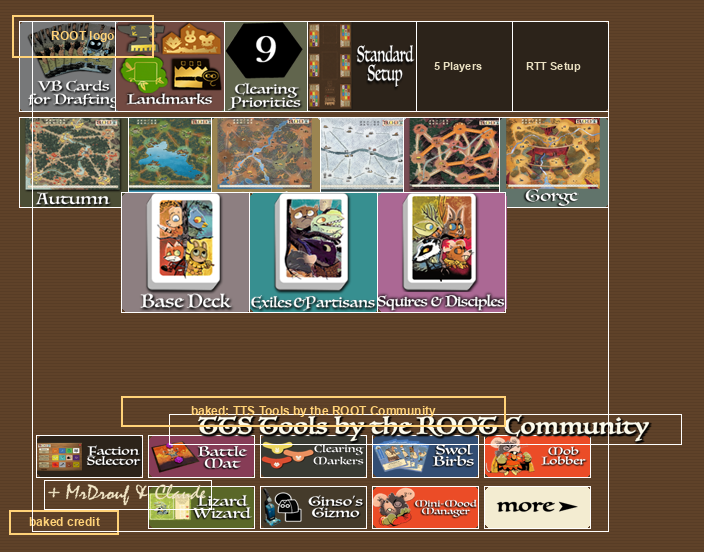
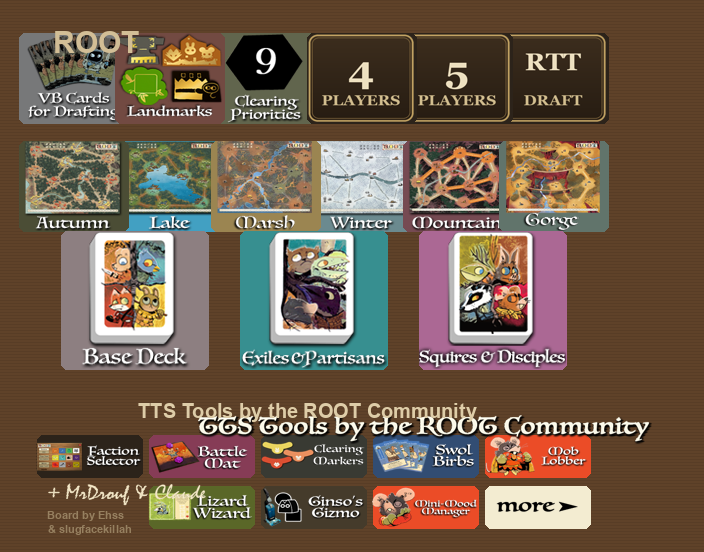
Balanced menu: setup plaques + deck/row layout, tuned against a preview renderer
- tools/preview_menu.py: composite the real hosted icons into a PNG at true XmlUI
  coords -> iterate layout without loading TTS.
- m330_setup_plaques: 4 PLAYERS / 5 PLAYERS / RTT DRAFT wooden plaques (assets/buttons/,
  GitHub-raw hosted) replace the flat dark text buttons.
- m340_layout_polish: decks spread wide + enlarged to fill the row; setups/maps/decks
  nudged down to fill the dead band above the baked title.

diff --git a/tools/preview_menu.py b/tools/preview_menu.py
@@ -18,8 +18,9 @@ OUT = os.path.join(ROOT, "tools", "menu_preview.png")
 os.makedirs(CACHE, exist_ok=True)
 
 MENU_GUID = "bab7e1"                      # Faction Selection
-GROUPS = sys.argv[1:] or ["setupButtons", "mapButtonsStandard",
-                          "decksButtonsStandard", "tools1", "Main Nav"]
+DEBUG = "--debug" in sys.argv
+GROUPS = [a for a in sys.argv[1:] if not a.startswith("--")] or \
+    ["setupButtons", "mapButtonsStandard", "decksButtonsStandard", "tools1", "Main Nav"]
 
 # ---- coordinate space -> pixels (calibrated to the board: X ~3.07 px/u, Y ~2.9) ----
 SX, SY = 3.2, 3.0
@@ -87,7 +88,17 @@ def parse(block, tag):
                         color=g("color")))
     return out
 
+REPO_RAW = "raw.githubusercontent.com/mrdrouf/root-tabletop-tournament/main/"
+
 def fetch(url):
+    # the repo's own assets may not be pushed yet — resolve them to local files
+    if REPO_RAW in url:
+        local = os.path.join(ROOT, url.split(REPO_RAW, 1)[1].replace("/", os.sep))
+        if os.path.exists(local):
+            try:
+                return Image.open(local).convert("RGBA")
+            except Exception:
+                pass
     p = os.path.join(CACHE, hashlib.md5(url.encode()).hexdigest() + ".img")
     if not os.path.exists(p):
         try:
@@ -126,7 +137,8 @@ def draw_btn(b):
     elif b.get("text"):
         dr.text(((l + r) / 2, (t + bot) / 2), b["text"], anchor="mm",
                 fill=(235, 225, 195), font=font(11))
-    dr.rectangle([l, t, r, bot], outline=(255, 255, 255, 40))   # slot outline
+    if DEBUG:
+        dr.rectangle([l, t, r, bot], outline=(255, 255, 255, 40))   # slot outline
 
 total = 0
 for gid in GROUPS:
@@ -135,18 +147,19 @@ for gid in GROUPS:
     for b in btns:
         draw_btn(b); total += 1
 
-# baked (immovable) reference markers
-def marker(x, y, txt, w=40, h=10):
-    l, t, r, bot = box(dict(x=x, y=y, w=w, h=h))
-    dr.rectangle([l, t, r, bot], outline=(255, 210, 120, 200), width=2)
-    dr.text(((l + r) / 2, (t + bot) / 2), txt, anchor="mm", fill=(255, 210, 120), font=font(12))
-marker(0, -45, "baked: TTS Tools by the ROOT Community", w=120, h=10)
-marker(-78, -82, "baked credit", w=34, h=8)
-marker(-72, 80, "ROOT logo", w=44, h=14)
-
-# board usable bounds
-bl = box(dict(x=-88, y=85, w=0, h=0))[0:2]; br = box(dict(x=92, y=-85, w=0, h=0))[0:2]
-dr.rectangle([bl[0], bl[1], br[0], br[1]], outline=(255, 255, 255, 90), width=1)
+# baked art (part of the board texture) — draw subtly so the preview is representative
+def baked_text(x, y, txt, size, fill):
+    cx, cy = px(x, y)
+    dr.text((cx, cy), txt, anchor="mm", fill=fill, font=font(size))
+baked_text(-2, -45, "TTS Tools by the ROOT Community", 20, (222, 205, 168, 235))
+baked_text(-70, -82, "Board by Ehss\n& slugfacekillah", 11, (150, 128, 96, 255))
+baked_text(-68, 78, "ROOT", 30, (210, 190, 150, 120))
+if DEBUG:
+    marker = lambda x, y, w, h: dr.rectangle(box(dict(x=x, y=y, w=w, h=h)),
+                                             outline=(255, 210, 120, 200), width=2)
+    marker(-2, -45, 120, 10); marker(-70, -82, 34, 12)
+    bl = box(dict(x=-88, y=85, w=0, h=0))[0:2]; br = box(dict(x=92, y=-85, w=0, h=0))[0:2]
+    dr.rectangle([bl[0], bl[1], br[0], br[1]], outline=(255, 255, 255, 90), width=1)
 
 img.convert("RGB").save(OUT)
 print("rendered %d elements -> %s (%dx%d)" % (total, OUT, W, H))

diff --git a/mods/m340_layout_polish.py b/mods/m340_layout_polish.py
@@ -1,0 +1,43 @@
+"""
+m340 — layout polish (final source of truth for the row geometry).
+
+Judged against tools/preview_menu.py renders. Runs last, so it overrides the row
+positions/sizes set earlier. Fixes seen in the preview:
+ - the 3 decks left the right third of their row empty -> spread them wide and
+   enlarge so they balance the 6-wide map row above.
+ - the top rows sat high with a dead band above the baked title -> nudge setups /
+   maps / decks down so the upper block fills the space more evenly.
+"""
+
+from . import framework
+
+# (group, [(button_id, "x y z")]) rows, applied in order; sizes set below
+SETUP_ROW = ("setupButtons", [
+    ("Vagabond Cards", "-75 66 -20"), ("Landmarks", "-45 66 -20"),
+    ("Clearing Priorities", "-15 66 -20"), ("Setup All", "15 66 -20"),
+    ("fivePlayerSetup", "45 66 -20"), ("rttSetup", "75 66 -20"),
+])
+MAP_ROW = ("mapButtonsStandard", [
+    ("Summer Map", "-75 30 -20"), ("Lake Map", "-45 30 -20"),
+    ("Marsh Map", "-15 30 -20"), ("Winter Map", "15 30 -20"),
+    ("Mountain Map", "45 30 -20"), ("Gorge Map", "75 30 -20"),
+])
+DECK_ROW = ("decksButtonsStandard", [
+    ("Standard Deck", "-56 -8 -20"), ("Exiles and Partisans Deck", "0 -8 -20"),
+    ("Squires and Disciples Deck", "56 -8 -20"),
+])
+
+NAME = "layout polish: spread decks, tighten vertical spacing"
+
+
+def apply(text):
+    for group, row in (SETUP_ROW, MAP_ROW, DECK_ROW):
+        for bid, pos in row:
+            text, n = framework.set_button_position_in_group(text, group, bid, pos)
+            if n == 0:
+                raise framework.BuildError("button not found in %s: %r" % (group, bid))
+    # decks a touch bigger so three of them fill the row width
+    for bid, _ in DECK_ROW[1]:
+        for attr, val in (("width", "46"), ("height", "46")):
+            text, _ = framework.set_button_attr_in_group(text, "decksButtonsStandard", bid, attr, val)
+    return text

diff --git a/mods/m330_setup_plaques.py b/mods/m330_setup_plaques.py
@@ -1,0 +1,41 @@
+"""
+m330 — consistent plaques for the three setup ACTIONS.
+
+The setups row mixed real icon-thumbnails (Vagabond Cards, Landmarks, Clearing
+Priorities) with flat dark text buttons (Standard Setup / 5 Players / RTT Setup) —
+the text buttons looked unfinished and broke the row. Give the three setup actions
+matching wooden plaques ("4 PLAYERS", "5 PLAYERS", "RTT DRAFT", rendered in
+assets/buttons/, hosted via the repo's GitHub raw URL) so the row reads as a
+deliberate set. Same hosting trick as the handwriting credit — no font bundle,
+just images.
+"""
+
+from . import framework
+
+NAME = "setup action plaques: 4 Players / 5 Players / RTT Draft"
+
+REPO_RAW = "https://raw.githubusercontent.com/mrdrouf/root-tabletop-tournament/main"
+PLAQUES = [  # (asset name, png, target button id, old text to replace or None if icon)
+    ("setup4p", "setup_4p.png", "Setup All", None),
+    ("setup5p", "setup_5p.png", "fivePlayerSetup", "5 Players"),
+    ("setuprtt", "setup_rtt.png", "rttSetup", "RTT Setup"),
+]
+
+
+def apply(text):
+    for name, png, _bid, _old in PLAQUES:
+        url = "%s/assets/buttons/%s" % (REPO_RAW, png)
+        text = framework.add_custom_ui_asset(text, name, url)
+
+    # Setup All already has icon="SixPack" -> swap it
+    text, n = framework.set_button_attr(text, "Setup All", "icon", "setup4p")
+    if n == 0:
+        raise framework.BuildError("Setup All button not found")
+
+    # the other two are text buttons -> turn text into an icon (drops the text)
+    for name, _png, _bid, old in PLAQUES:
+        if old is None:
+            continue
+        text = framework.replace_unique(
+            text, framework.esc('text="%s"' % old), framework.esc('icon="%s"' % name))
+    return text

diff --git a/mods/registry.py b/mods/registry.py
@@ -45,6 +45,8 @@ from . import m290_lizard_warriors
 from . import m300_duchy_warriors
 from . import m310_errata
 from . import m320_menu_cleanup
+from . import m330_setup_plaques
+from . import m340_layout_polish
 
 # Ready-made examples — uncomment to begin layering real modifications:
 # from . import m010_no_marquise_dice
@@ -83,4 +85,6 @@ MODS = [
     m300_duchy_warriors,
     m310_errata,
     m320_menu_cleanup,
+    m330_setup_plaques,
+    m340_layout_polish,
 ]

diff --git a/CHANGELOG.md b/CHANGELOG.md
@@ -240,4 +240,23 @@ proposals → judged → adversarial geometry check).
   (`framework.add_custom_ui_asset`), and placed as an `<Image>` tucked above the
   baked credit. Swap fonts via `FONT` in m270 (five rendered options in assets).
 
+## A real feedback loop + a balanced board — 2026-08-20
+The menu kept shipping as a mess because it was laid out blind. `tools/preview_menu.py`
+fixes the workflow: it fetches the real hosted button-icons and composites the whole
+menu to a PNG at the true XmlUI coordinates, so the layout can be judged and iterated
+WITHOUT loading TTS. Everything below was tuned against that preview.
+- `m330_setup_plaques` — the three setup ACTIONS were flat dark text buttons that broke
+  the row. Replaced with matching wooden plaques "4 PLAYERS / 5 PLAYERS / RTT DRAFT"
+  (rendered in `assets/buttons/`, hosted via GitHub raw, same trick as the credit).
+- `m340_layout_polish` — final row geometry (overrides earlier): the 3 decks spread
+  wide and enlarged (46) to balance the 6-wide map row instead of leaving the right
+  third empty; setups/maps/decks nudged down to fill the dead band above the baked
+  title. Rows: setups Y66, maps Y30, decks Y−8; tools grid stays under the title.
+
+## Warrior placement was mirrored — 2026-08-20
+`m290`/`m300` — the selector-frame rotation had been applied backwards, so the Lizard
+(and Duchy) warriors spawned on the exact opposite side. Re-derived from the data's own
+supply position: Lizard needs R180, Duchy needs identity. Now the packs land next to
+each supply and the Lizard acolytes on the board.
+
 Each later step appends one or more modifications under `mods/` and an entry here.
